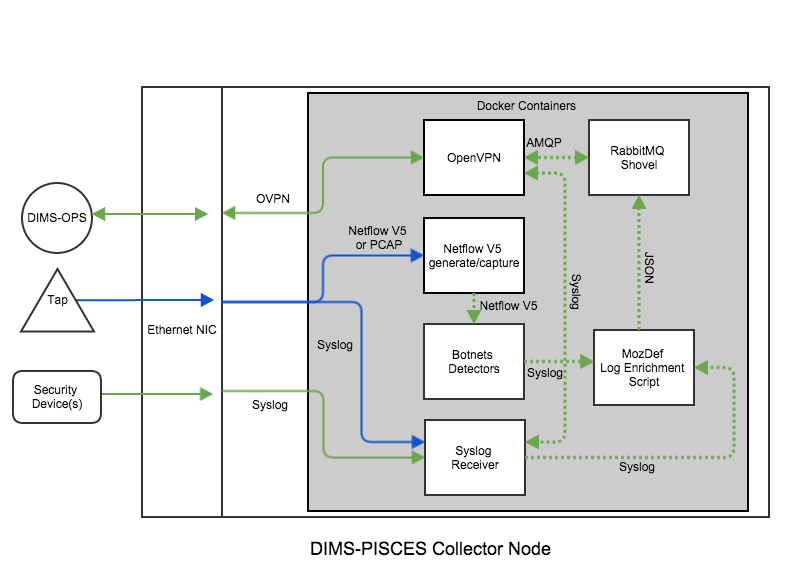
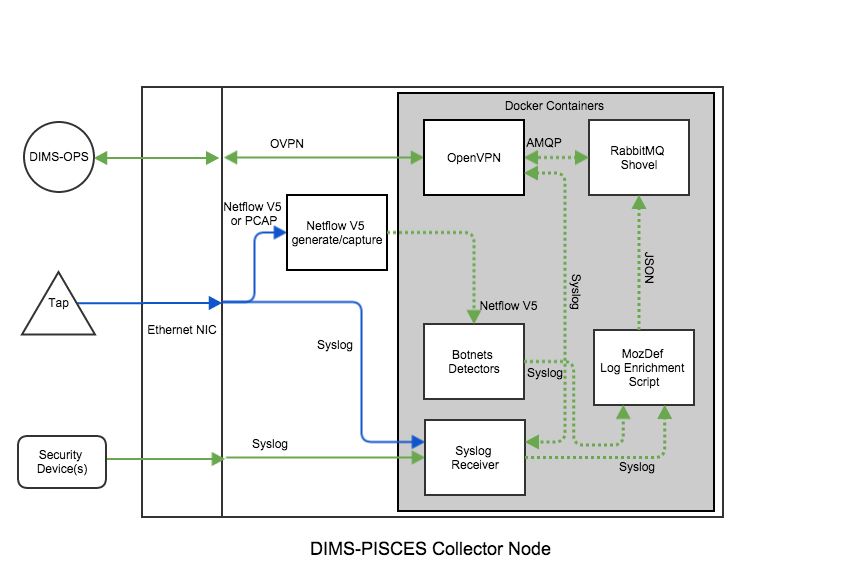
Add appendix section describing DIMS-PISCES collector architecture

diff --git a/docs/source/appendices.rst b/docs/source/appendices.rst
@@ -3,9 +3,140 @@
 Appendices
 ==========
 
-.. todo::
+.. _distributedeventcollection:
 
-   Remove this section if we end up with no appendices.
+Distributed Event Log Collection
+--------------------------------
+
+The PRISEM system uses an obsolete (past end-of-life) commercial SEIM
+product that collects logs from participating sites, and forwards them
+to a central storage and processing system. This is described in
+the :ref:`dimsocd:dimsoperationalconceptdescription`, Section
+:ref:`dimsocd:prisemcapabilities`, and depicted in this document in
+Figure :ref:`PRISEMInitialDeploymentAndFlows`.
+
+The data flow used in the more recent MozDef system was described in Section
+:ref:`conceptofexecution`. MozDef uses Python scripts for enrichment of
+incoming event logs, optionally received via AMQP (using RabbitMQ).
+
+.. _proposeddimspisces:
+
+Proposed DIMS-PISCES Collector Architecture
+~~~~~~~~~~~~~~~~~~~~~~~~~~~~~~~~~~~~~~~~~~~
+
+To replace this distributed log collection system with an open source
+alternative, the features of RabbitMQ known as `Federated Queues`_ and
+`Distributed RabbitMQ brokers`_ (specifically, the `Shovel plugin`_),
+implemented in Docker containers like other DIMS components, can be
+used. This architecture is depicted in Figure :ref:`proposedcollector`.
+
+.. _Federated Queues: https://www.rabbitmq.com/federated-queues.html
+.. _Distributed RabbitMQ brokers: https://www.rabbitmq.com/distributed.html
+.. _Shovel plugin: https://www.rabbitmq.com/shovel.html
+.. _proposedcollector:
+
+.. figure:: images/DIMS_PISCES_Collector_Node-v1.png
+   :width: 90%
+   :alt: Proposed DIMS-PISCES Collector Architecture
+   :align: center
+   :name: Proposed DIMS-PISCES Collector Architecture
+
+   Proposed DIMS-PISCES Collector Architecture
 
 ..
 
+The mechanisms for implementing this distributed collection archicture using
+RabbitMQ are described in:
+
++ `Alvaro Videla - Building a Distributed Data Ingestion System with RabbitMQ`_, YouTube, Jul 16, 2014
++ `Distributed log aggregation with RabbitMQ Federation`_, by Alvaro Videla, December 17, 2013
++ `Routing Topologies for Performance and Scalability with RabbitMQ`_, by Helena Edelson, April 1, 2011
+
+.. _Alvaro Videla - Building a Distributed Data Ingestion System with RabbitMQ: https://youtu.be/EUfSgYU_SFk
+.. _Routing Topologies for Performance and Scalability with RabbitMQ: http://spring.io/blog/2011/04/01/routing-topologies-for-performance-and-scalability-with-rabbitmq/
+.. _Distributed log aggregation with RabbitMQ Federation: http://jaxenter.com/distributed-log-aggregation-with-rabbitmq-federation-107287.html
+
+As described in `Distributed log aggregation with RabbitMQ Federation`_, the relationship
+between participant sites with the DIMS-PISCES collector is one of `upstream`
+exchanges, which will feed the central DIMS-PISCES backend data store
+acting as a `downstream` exchange via the RabbitMQ `Shovel plugin`_.
+
+.. _upstreamdownstream:
+
+.. figure:: images/alvaro-1.png
+   :width: 50%
+   :alt: Relationship between Upstream and Downstream Exchanges
+   :align: center
+   :name: Relationship between Upstream and Downstream Exchanges
+
+   Relationship between Upstream and Downstream Exchanges
+
+..
+
+.. todo::
+
+    Describe how the event logs at an upstream participant site are collected,
+    processed, and forwarded to the central backend data store.  These steps
+    are:
+ 
+    #. Parsing from Unix ``syslog`` format to JSON.
+ 
+    #. Enrichment with site-specific tagging:
+ 
+        #. Adding participant *SiteID*.
+ 
+        #. Mapping of RFC 1918 addresses to routable (i.e., post-NAT)
+           address(es).
+ 
+        #. TLP tagging.
+ 
+    #. Publishing to AMQP upstream exchange for local queueing
+       and forwarding to downstream exchange for insertion into
+       backend data store.
+
+
+    .. note::
+
+       Logs for the DIMS-PISCES system processes and security systems should
+       themselves be enriched with *SiteID* and identified as being DIMS-PISCES
+       related to separate them from other security event logs.  This allows
+       for monitoring of the health of the DIMS-PISCES system itself.  These
+       events are otherwise processed identically to security events to
+       simplify the design of the system.
+
+    ..
+
+..
+
+.. todo::
+
+    .. attention::
+
+        Tuning of RabbitMQ queues should take into account the number of events
+        received per collector per day, times the number of days of network
+        outage that would be tolerable, in order to avoid losing events. If we
+        can determine these numbers from the existing PRISEM system, or derive
+        it from historical log data, that would help with tuning.
+
+    ..
+
+..
+
+
+Related resources
+~~~~~~~~~~~~~~~~~
+
+Other web pages that provide alternative methods of collecting log
+events in Docker containers include the following:
+
+    + `Automating Docker Logging: ElasticSearch, Logstash, Kibana, and Logspout`_, by Nathan LeClaire, Apr 27, 2015
+    + `Scalable Docker Monitoring with Fluentd, Elasticsearch and Kibana 4`_, by manu, November 21, 2014
+    + `syslog logging driver for Docker`_, by Mark Wolfe, May 3, 2015
+    + `Real-time monitoring of Hadoop clusters`_, by Attila Kanto, October 7, 2014
+
+
+
+.. _Automating Docker Logging\: ElasticSearch, Logstash, Kibana, and Logspout: http://nathanleclaire.com/blog/2015/04/27/automating-docker-logging-elasticsearch-logstash-kibana-and-logspout/
+.. _Scalable Docker Monitoring with Fluentd, Elasticsearch and Kibana 4: http://blog.snapdragon.cc/2014/11/21/scalable-docker-monitoring-fluentd-elasticsearch-kibana-4/
+.. _syslog logging driver for Docker: http://www.wolfe.id.au/2015/05/03/syslog-logging-driver-for-docker/
+.. _Real-time monitoring of Hadoop clusters: http://blog.sequenceiq.com/blog/2014/10/07/hadoop-monitoring/
